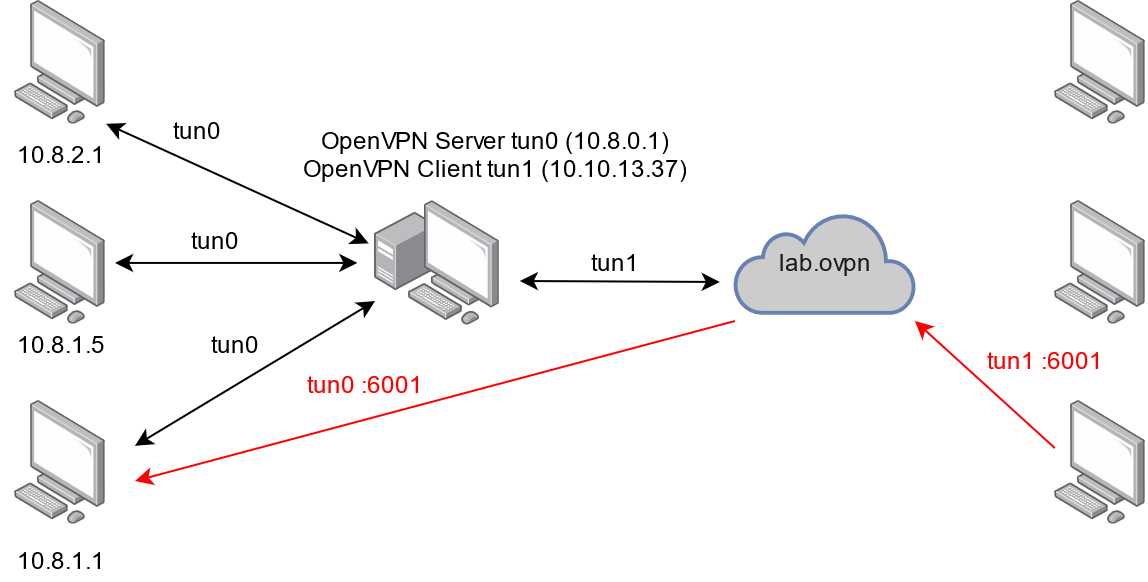
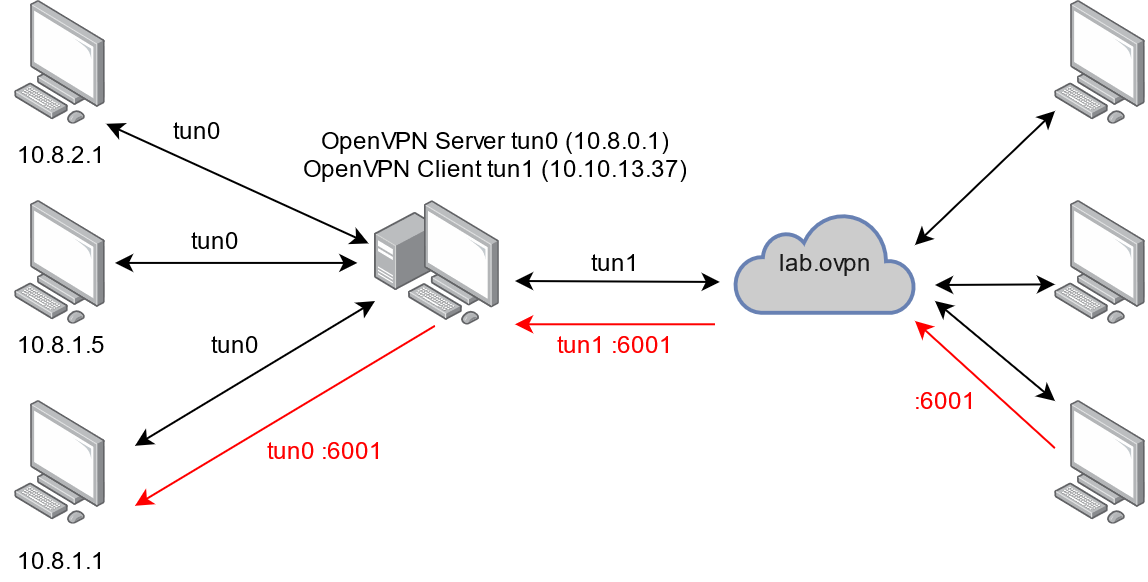
[AHK] Automatic update :alien:

diff --git a/admin/networking/routing.md b/admin/networking/routing.md
@@ -45,6 +45,10 @@ Cmd > route add 10.10.10.0 mask 255.255.255.0 192.168.0.181
 
 ## OpenVPN Jump Server
 
+I shall configure an intermediate OpenVPN server to serve as a jump box (1st hop) to connect to the target lab. It's helpful when the target OpenVPN server (2nd hop) doesn't allow to have multiple connections with the same common name (`--duplicate-cn` not set), i.e. using the same client's `.ovpn` profile.
+
+![](/.gitbook/assets/2.png)
+
 Quick OpenVPN server installation:
 
 * [https://www.cyberciti.biz/faq/howto-setup-openvpn-server-on-ubuntu-linux-14-04-or-16-04-lts/](https://www.cyberciti.biz/faq/howto-setup-openvpn-server-on-ubuntu-linux-14-04-or-16-04-lts/)
@@ -61,10 +65,6 @@ Check OpenVPN server status:
 ```
 $ sudo service openvpn-server@server status
 ```
-
-I shall configure an intermediate OpenVPN server to serve as a jump box (1st hop) to connect to the target lab. It's helpful when the target OpenVPN server (2nd hop) doesn't allow to have multiple connections with the same common name (`--duplicate-cn` not set), i.e. using the same client's `.ovpn` profile.
-
-![](/.gitbook/assets/2.png)
 
 Change server config (`/etc/openvpn/server/server.conf`):
 

diff --git a/pentest/internal/ad/acl-abuse.md b/pentest/internal/ad/acl-abuse.md
@@ -9,7 +9,7 @@
 
 ## BloodHound
 
-ACL abuse hierarchy (by [@HackAndDo](https://twitter.com/HackAndDo/status/1398309183074754562)):
+ACL BloodHound abuse hierarchy (by [@HackAndDo](https://twitter.com/HackAndDo/status/1398309183074754562)):
 
 ![](/.gitbook/assets/1.png)
 
